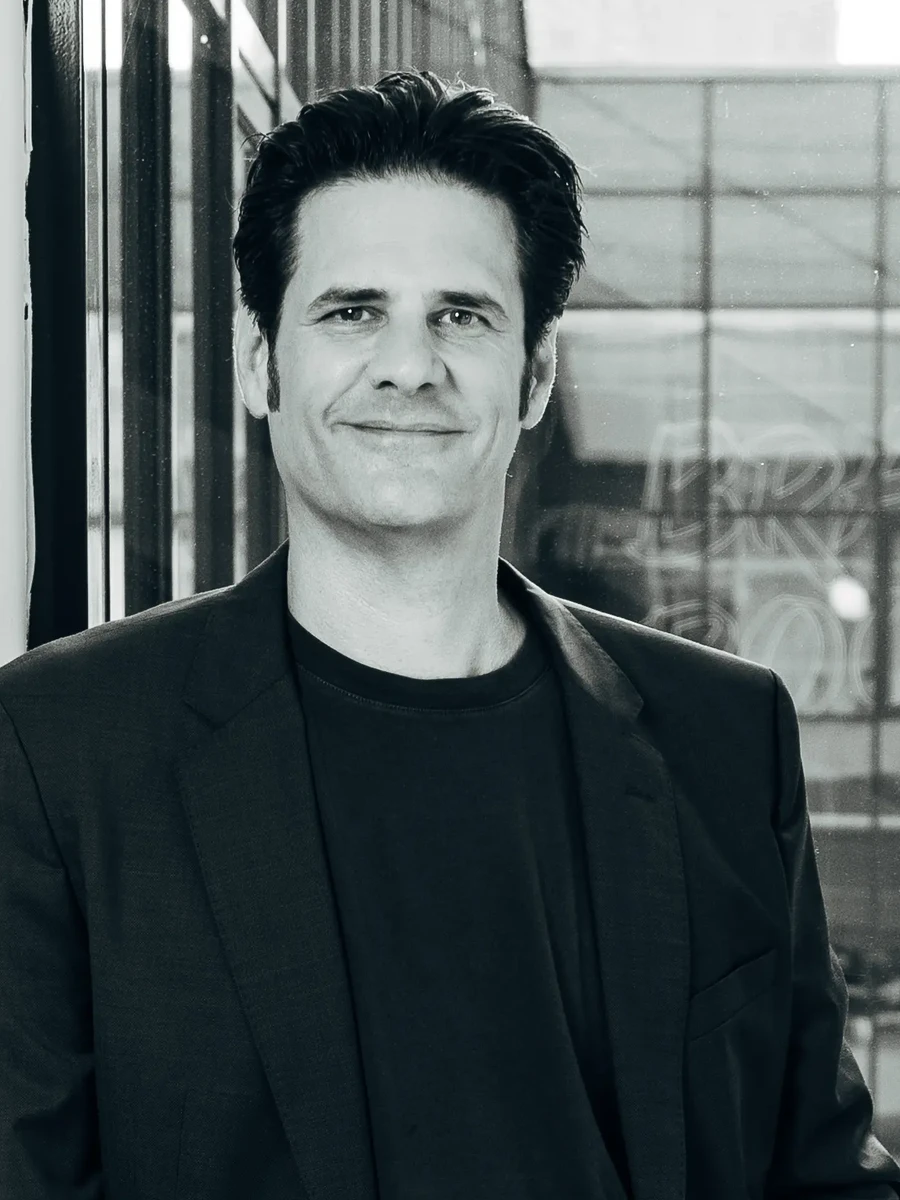
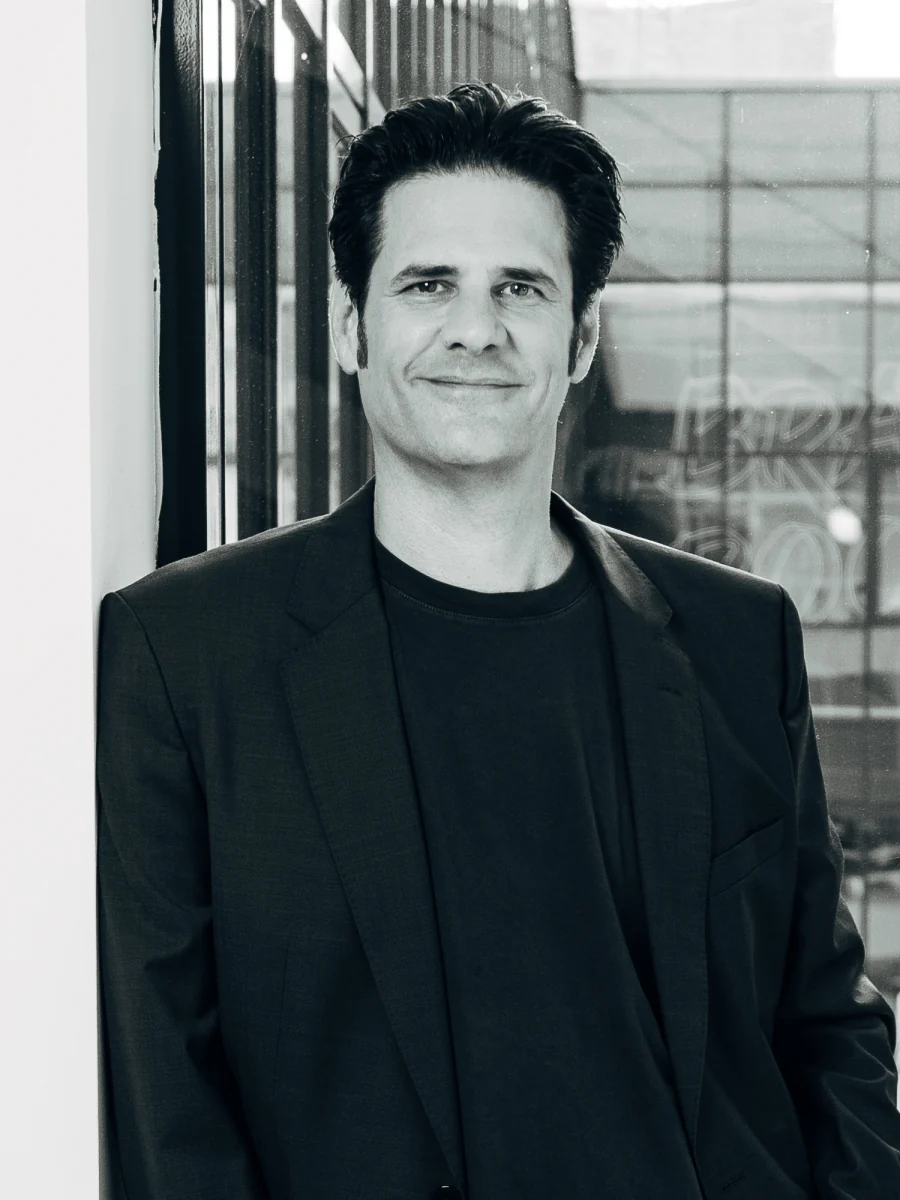
Update Michael Laegel team portrait

diff --git a/src/data/leadership.ts b/src/data/leadership.ts
@@ -52,18 +52,11 @@ export const LEADERSHIP: Leader[] = [
   // um den Kinnpunkt gezoomt) → näher an Knut.
   { name: "Marcus Wolter", role: "CEO & Co-Founder", img: "/people/marcus-wolter.webp" },
   { name: "Knut Kremling", role: "COO", img: "/people/knut-kremling.webp" },
-  // Echtes Portrait (Wolfram 17.07.) — löst den Platzhalter lead-3.jpg ab.
-  // ACHTUNG, ANDERE ZAHL ALS UNTEN: Michael Laegel steht in der LEADER-Reihe, deren
-  // Kacheln 248×182 (1.36) messen — nicht 142×138 (1.03) wie die Reihen darunter. Von
-  // einem 0.75-Hochformat bleiben dort nur 55 % der Bildhöhe stehen (statt 73 %). Ein
-  // 32 %-Kopf wie bei den anderen wäre hier auf 58 % der Kachelhöhe aufgeblasen worden.
-  // Daher Kopf = 24 % der Ausschnitthöhe → 24/0.55 = 43,6 % der Kachel, das entspricht
-  // Knut (~43 %). Nachskaliert (Wolfram 21.07., 2. Runde): Kopf −15 % + auf die Leader-
-  // Kinnlinie (~49 % der Kachel) gehoben — frisch aus assets/People/Michael Laegel.jpg
-  // (4912×7360) beschnitten: extract(839,1629,2283,3043).
-  // HORIZONTAL ZENTRIERT (Wolfram 21.07., 4. Runde): saß zu weit rechts (~68 %), links war
-  // zu viel weiße Wand zu sehen. Fenster nach rechts geschoben → Gesicht ~51 %, Wand nur
-  // noch schmaler Streifen. extract(1240,1320,2250,3000).
+  // Neues, schärferes Portrait (Wolfram 10.09.2026). Quelle „2026_07 Banijay _ Nick
+  // Harwart-8054-2 (1).jpg" (4912×7360). Für die bestehende Leader-Skalierung auf
+  // 900×1200 beschnitten: extract(1750,1740,1500,2000). Scheitel (~7 %), Kinnlinie
+  // (~48 %) und horizontale Gesichtsmitte entsprechen Marcus, Knut und Arno; der
+  // bestehende Fokuswert 50 % 14 % bleibt dadurch unverändert.
   { name: "Michael Laegel", role: "CFO", img: "/people/michael-laegel.webp" },
   // Neu im Board (Wolfram 04.08.): direkt hinter Michael Laegel. Quelle
   // assets/People/weboptimiert/Arno.webp (3800×5712). Für die Leader-Reihe auf

diff --git a/CHANGELOG.md b/CHANGELOG.md
@@ -3,6 +3,21 @@
 Alle nennenswerten Änderungen an diesem Projekt. Format angelehnt an
 [Keep a Changelog](https://keepachangelog.com/de/1.1.0/).
 
+## [main] — 2026-09-10
+
+### Team-Porträt von Michael Laegel erneuert
+
+- **Schärferes Original eingesetzt:** Das bisherige Portrait von Michael Laegel wurde
+  durch die neu gelieferte, höher aufgelöste Schwarz-Weiß-Aufnahme ersetzt.
+- **Einheitliche Proportionen:** Der Ausschnitt wurde auf das bestehende Teamformat
+  900 × 1200 px abgestimmt. Kopfposition, Kinnlinie und Größenwirkung orientieren sich
+  an den benachbarten Board-Porträts von Marcus Wolter, Knut Kremling und Arno
+  Schneppenheim.
+- **Weboptimiert:** Das Original wurde verlustarm als WebP auf rund 83 KB reduziert;
+  der vorhandene Fokuspunkt und sämtliche Team-Layouts bleiben unverändert.
+- **Verifiziert:** Die vier Board-Porträts wurden direkt nebeneinander verglichen;
+  TypeScript-Prüfung, ESLint und der Produktions-Build laufen ohne Fehler durch.
+
 ## [main] — 2026-09-03
 
 ### Supplier Code of Conduct unter den Vertrags-URLs bereitgestellt

diff --git a/README.md b/README.md
@@ -122,7 +122,9 @@ Volltext- und englische Kurzfassung hinterlegt. Ihr breites Gruppenmotiv wird na
 ausgespielt; der Artikel bietet strukturierte Hervorhebungen, den PicDrop-Link und die
 Original-PDF als Download. News-Detailseiten nutzen global eine kompaktere H1, damit lange
 Headlines das Hero-Motiv nicht verdecken. In der Team-Section ergänzt Arno Schneppenheim als
-CCO die Board-Reihe direkt hinter Michael Laegel.
+CCO die Board-Reihe direkt hinter Michael Laegel. Michaels Portrait wurde am 10.09.2026 durch
+eine schärfere, hochauflösende Schwarz-Weiß-Aufnahme ersetzt und im bestehenden 900 × 1200-px-
+Format proportional an die übrigen Board-Porträts angepasst.
 
 **Karriere-Stand 10.08.2026.** Alle Karriere-CTAs und Standorte verweisen auf das
 gruppenweite Softgarden-Board `https://banijay.softgarden.io/de/vacancies`; die entfernte
